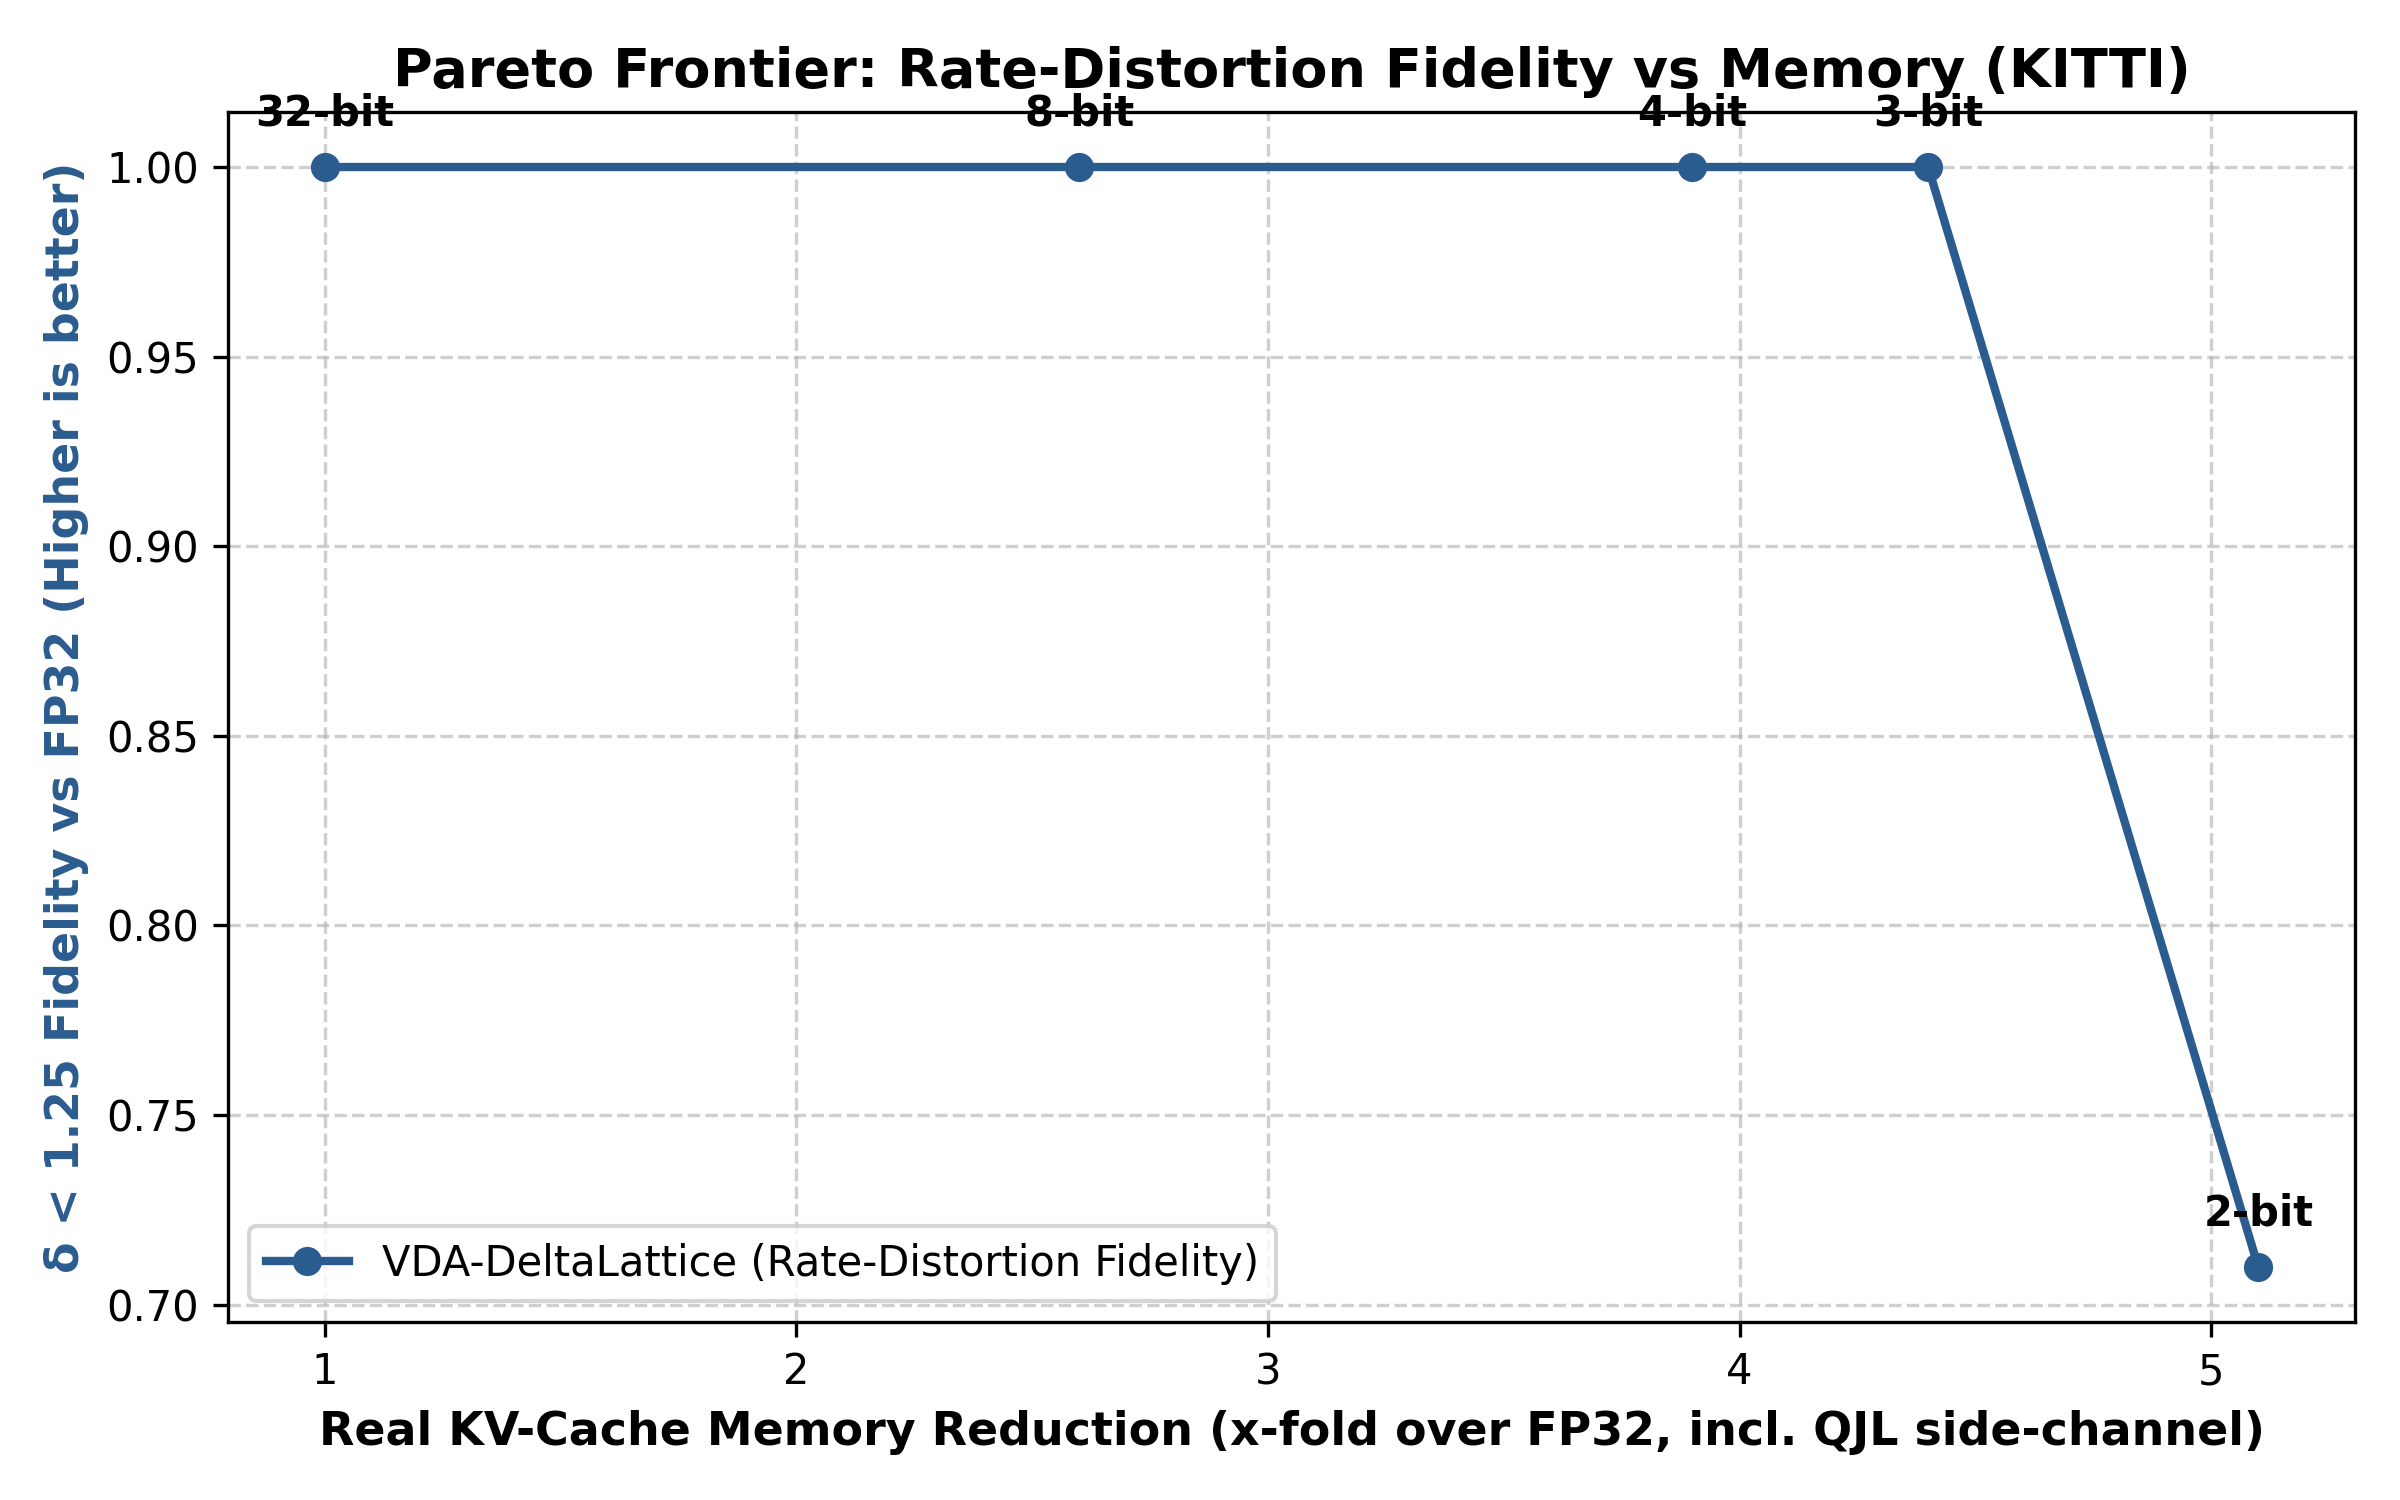
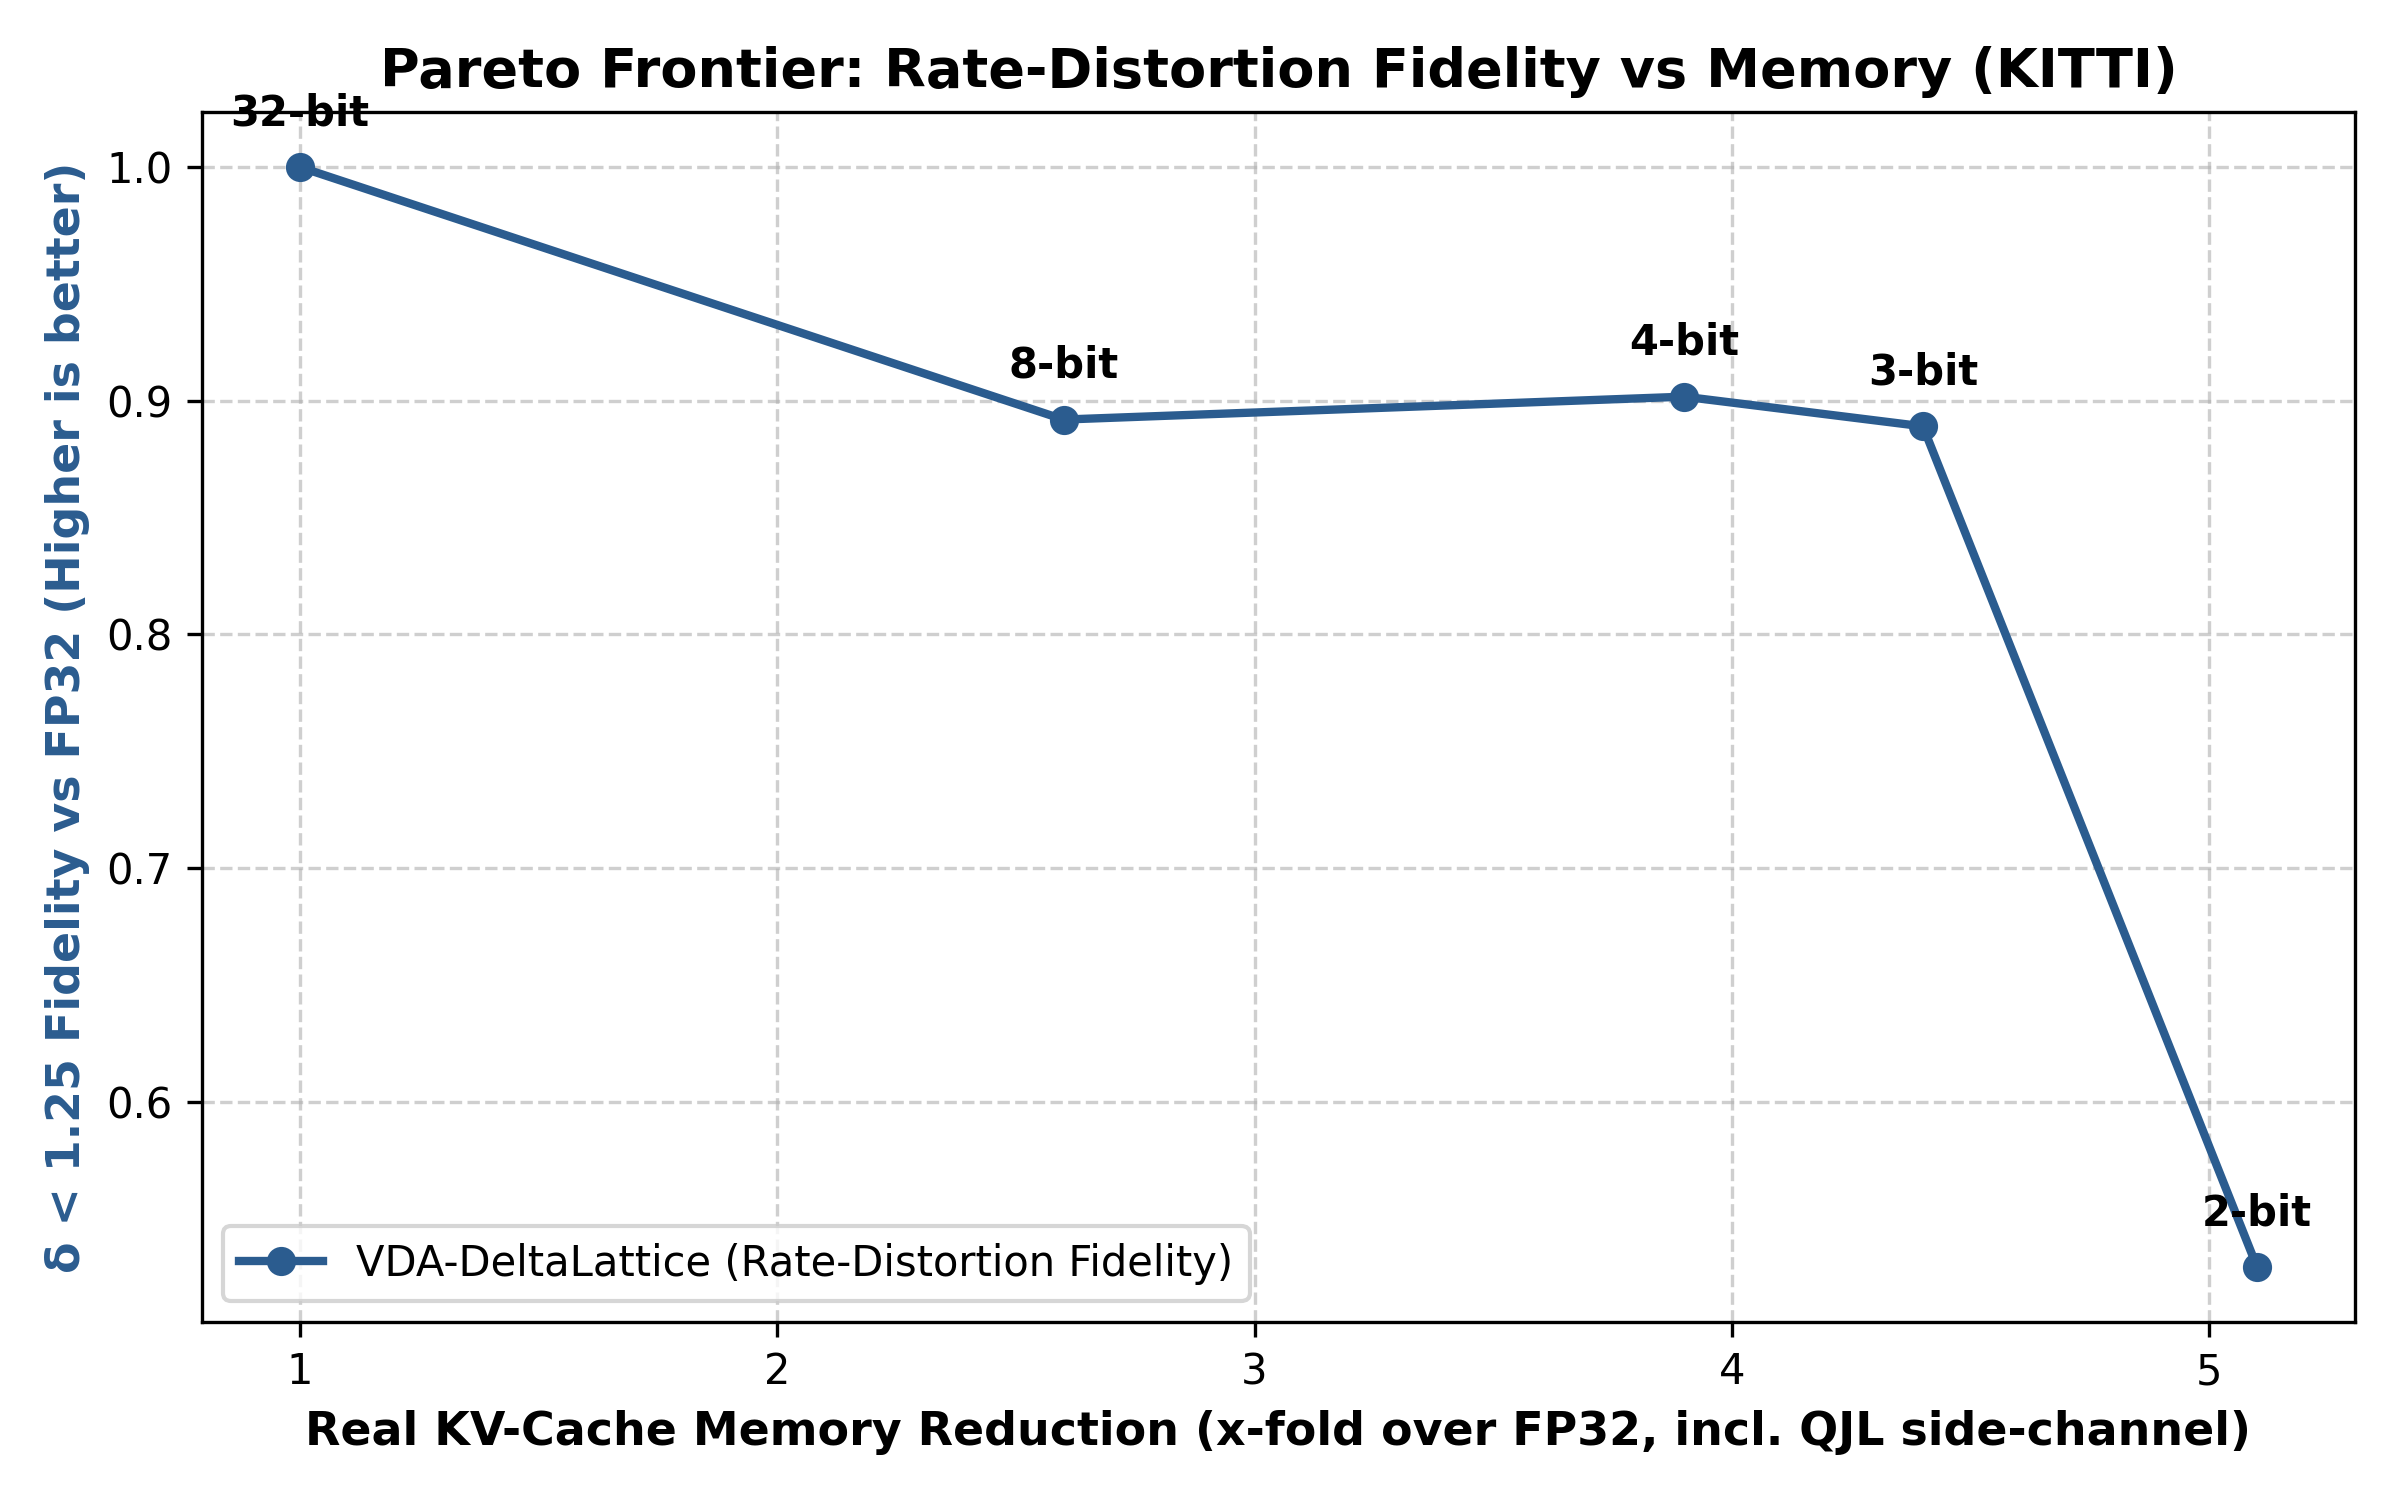
feat: update full-res evaluation script for batch processing and multi-video support, and add weight saving utility

diff --git a/scripts/test_full_res_video.py b/scripts/test_full_res_video.py
@@ -1,8 +1,7 @@
 #!/usr/bin/env python3
 """
-C
 Full Resolution PTQ Custom Video Evaluation Script
-Runs the VDA PTQ sweep (FP32, 8-bit, 4-bit) on a single video at its full original resolution.
+Runs the VDA PTQ sweep (FP32, 8-bit, 4-bit, etc.) on multiple videos at full original resolution.
 """
 import os
 import sys
@@ -36,48 +35,25 @@ def create_labeled_panel(img: np.ndarray, label: str, is_depth: bool = True) -> 
 
 def main():
     parser = argparse.ArgumentParser()
-    parser.add_argument("--video", type=str, default="videos/video2.mp4", help="Path to input video")
-    parser.add_argument("--bits", nargs="+", type=int, default=[8, 4])
-    parser.add_argument("--max-frames", type=int, default=30, help="Max frames to process")
-    parser.add_argument("--output-dir", type=str, default="outputs/custom_videos", help="Output directory")
+    parser.add_argument("--videos-dir", type=str, default="videos", help="Directory containing mp4s")
+    parser.add_argument("--bits", nargs="+", type=int, default=[8, 4, 3])
+    parser.add_argument("--max-frames", type=int, default=5, help="Max frames to process")
+    parser.add_argument("--output-dir", type=str, default="outputs/new", help="Output directory")
     args = parser.parse_args()
 
-    video_path = REPO_ROOT / args.video
+    input_path = REPO_ROOT / args.videos_dir
     output_dir = REPO_ROOT / args.output_dir
     output_dir.mkdir(parents=True, exist_ok=True)
     
-    if not video_path.exists():
-        print(f"Error: {video_path} not found.")
+    if input_path.is_file() and input_path.suffix == '.mp4':
+        video_files = [input_path]
+    else:
+        video_files = list(input_path.glob("*.mp4"))
+    if not video_files:
+        print(f"Error: No .mp4 files found in {input_path}")
         return
 
-    print(f"\nProcessing {video_path.name} at full resolution...")
-    
-    # Read frames and determine resolution
-    cap = cv2.VideoCapture(str(video_path))
-    orig_w = int(cap.get(cv2.CAP_PROP_FRAME_WIDTH))
-    orig_h = int(cap.get(cv2.CAP_PROP_FRAME_HEIGHT))
-    fps = cap.get(cv2.CAP_PROP_FPS) or 10
-    
-    # ViT models require dimensions to be a multiple of 14 (patch size)
-    new_w = max(14, round(orig_w / 14) * 14)
-    new_h = max(14, round(orig_h / 14) * 14)
-    print(f"  Original Resolution: {orig_w}x{orig_h}")
-    print(f"  Padded for ViT Model: {new_w}x{new_h}")
-
-    frames = []
-    while len(frames) < args.max_frames:
-        ret, frame = cap.read()
-        if not ret:
-            break
-        frame_rgb = cv2.cvtColor(frame, cv2.COLOR_BGR2RGB)
-        frames.append(frame_rgb)
-    cap.release()
-
-    if not frames:
-        print("No frames read from video.")
-        return
-
-    # Load Model
+    # Load Model Once
     try:
         import video_depth_anything.dinov2_layers.attention as dino_attn
         import video_depth_anything.motion_module.attention as motion_attn
@@ -103,64 +79,129 @@ def main():
         print(f"Failed to load model: {e}")
         return
 
-    frame_tensors = []
-    rgb_resized = []
-    mean = torch.tensor([0.485, 0.456, 0.406]).view(3, 1, 1)
-    std = torch.tensor([0.229, 0.224, 0.225]).view(3, 1, 1)
-    
-    for f in frames:
-        img_res = np.array(Image.fromarray(f).resize((new_w, new_h), Image.Resampling.LANCZOS))
-        rgb_resized.append(img_res)
-        tensor = (torch.from_numpy(img_res).float().permute(2, 0, 1) / 255.0 - mean) / std
-        frame_tensors.append(tensor)
+    # Process each video
+    for video_path in video_files:
+        print(f"\nProcessing {video_path.name} at full resolution...")
         
-    video_input = torch.stack(frame_tensors, dim=0).unsqueeze(0)
-    if torch.cuda.is_available():
-        video_input = video_input.cuda()
+        # Read frames and determine resolution
+        cap = cv2.VideoCapture(str(video_path))
+        orig_w = int(cap.get(cv2.CAP_PROP_FRAME_WIDTH))
+        orig_h = int(cap.get(cv2.CAP_PROP_FRAME_HEIGHT))
+        fps = cap.get(cv2.CAP_PROP_FPS) or 10
+        
+        # ViT models require dimensions to be a multiple of 14 (patch size)
+        new_w = max(14, round(orig_w / 14) * 14)
+        new_h = max(14, round(orig_h / 14) * 14)
+        print(f"  Original Resolution: {orig_w}x{orig_h}")
+        print(f"  Padded for ViT Model: {new_w}x{new_h}")
 
-    depth_predictions = {}
-    
-    print("  Running FP32 Baseline (Full Res)...")
-    with torch.no_grad():
-        depth_predictions["FP32 Baseline"] = model(video_input)[0].cpu().numpy()
-        
-    for bit in args.bits:
-        print(f"  Running {bit}-bit PTQ (Full Res)...")
-        model_quant = VideoDepthAnything(**model_configs).eval()
-        model_quant.load_state_dict(torch.load(ckpt_path, map_location='cpu'))
-        if torch.cuda.is_available():
-            model_quant = model_quant.cuda()
+        frames = []
+        while True:
+            ret, frame = cap.read()
+            if not ret:
+                break
+            frame_rgb = cv2.cvtColor(frame, cv2.COLOR_BGR2RGB)
+            frames.append(frame_rgb)
+        cap.release()
+
+        if not frames:
+            print("  No frames read from video, skipping.")
+            continue
             
-        model_quant = apply_rotated_quantization_to_vda(
-            model_quant, bits=bit, quantizer='lattice_d4', use_qjl=True, verbose=False, replace_temporal=False
-        )
-        with torch.no_grad():
-            depth_predictions[f"{bit}-bit D4"] = model_quant(video_input)[0].cpu().numpy()
+        print(f"  Total frames extracted: {len(frames)}")
 
-    # Layout: Top [RGB, FP32], Bottom [8-bit, 4-bit]
-    out_path = output_dir / f"ptq_fullres_{video_path.name}"
-    grid_width, grid_height = new_w * 2, new_h * 2
-    fourcc = cv2.VideoWriter_fourcc(*'mp4v')
-    out_video = cv2.VideoWriter(str(out_path), fourcc, fps, (grid_width, grid_height))
-    
-    print(f"  Assembling 2x2 Full Resolution Grid: {grid_width}x{grid_height}")
-    for t in range(len(frames)):
-        fp32_frame = depth_predictions["FP32 Baseline"][t]
-        d_min, d_max = fp32_frame.min(), fp32_frame.max()
-        d_range = max(d_max - d_min, 1e-8)
+        mean = torch.tensor([0.485, 0.456, 0.406]).view(3, 1, 1)
+        std = torch.tensor([0.229, 0.224, 0.225]).view(3, 1, 1)
         
-        p_rgb = create_labeled_panel(rgb_resized[t], f"Input Frame {t+1}/{len(frames)}", is_depth=False)
-        p_fp32 = create_labeled_panel((depth_predictions["FP32 Baseline"][t] - d_min) / d_range, "FP32 Baseline")
-        p_8bit = create_labeled_panel((depth_predictions["8-bit D4"][t] - d_min) / d_range, "8-bit PTQ")
-        p_4bit = create_labeled_panel((depth_predictions["4-bit D4"][t] - d_min) / d_range, "4-bit PTQ")
+        # Precompute resized frames to save time
+        rgb_resized = []
+        frame_tensors_all = []
+        for f in frames:
+            img_res = np.array(Image.fromarray(f).resize((new_w, new_h), Image.Resampling.LANCZOS))
+            rgb_resized.append(img_res)
+            tensor = (torch.from_numpy(img_res).float().permute(2, 0, 1) / 255.0 - mean) / std
+            frame_tensors_all.append(tensor)
+
+        depth_predictions = {}
+        chunk_size = args.max_frames
         
-        top_row = np.hstack([p_rgb, p_fp32])
-        bot_row = np.hstack([p_8bit, p_4bit])
-        grid_frame = np.vstack([top_row, bot_row])
-        out_video.write(grid_frame)
+        print(f"  Running FP32 Baseline in chunks of {chunk_size}...")
+        fp32_preds = []
+        for start_idx in range(0, len(frames), chunk_size):
+            end_idx = min(start_idx + chunk_size, len(frames))
+            chunk_tensors = frame_tensors_all[start_idx:end_idx]
+            video_input = torch.stack(chunk_tensors, dim=0).unsqueeze(0)
+            if torch.cuda.is_available():
+                video_input = video_input.cuda()
+            with torch.no_grad():
+                fp32_preds.append(model(video_input)[0].cpu().numpy())
+        depth_predictions["FP32 Baseline"] = np.concatenate(fp32_preds, axis=0)
+            
+        for bit in args.bits:
+            print(f"  Running {bit}-bit PTQ in chunks of {chunk_size}...")
+            model_quant = VideoDepthAnything(**model_configs).eval()
+            model_quant.load_state_dict(torch.load(ckpt_path, map_location='cpu'))
+            if torch.cuda.is_available():
+                model_quant = model_quant.cuda()
+                
+            model_quant = apply_rotated_quantization_to_vda(
+                model_quant, bits=bit, quantizer='lattice_d4', use_qjl=True, verbose=False, replace_temporal=False
+            )
+            
+            q_preds = []
+            for start_idx in range(0, len(frames), chunk_size):
+                end_idx = min(start_idx + chunk_size, len(frames))
+                chunk_tensors = frame_tensors_all[start_idx:end_idx]
+                video_input = torch.stack(chunk_tensors, dim=0).unsqueeze(0)
+                if torch.cuda.is_available():
+                    video_input = video_input.cuda()
+                with torch.no_grad():
+                    q_preds.append(model_quant(video_input)[0].cpu().numpy())
+            depth_predictions[f"{bit}-bit D4"] = np.concatenate(q_preds, axis=0)
+            
+            del model_quant
+            torch.cuda.empty_cache()
+
+        # Layout: Dynamic based on args.bits
+        out_path = output_dir / f"ptq_fullres_{video_path.name}"
         
-    out_video.release()
-    print(f"  Saved full resolution comparison grid to {out_path}")
+        num_cols = max(2, (len(args.bits) + 2 + 1) // 2)
+        grid_width, grid_height = new_w * num_cols, new_h * 2
+        fourcc = cv2.VideoWriter_fourcc(*'mp4v')
+        out_video = cv2.VideoWriter(str(out_path), fourcc, fps, (grid_width, grid_height))
+        
+        print(f"  Assembling Full Resolution Grid: {grid_width}x{grid_height}")
+        for t in range(len(frames)):
+            fp32_frame = depth_predictions["FP32 Baseline"][t]
+            d_min, d_max = fp32_frame.min(), fp32_frame.max()
+            d_range = max(d_max - d_min, 1e-8)
+            
+            p_rgb = create_labeled_panel(rgb_resized[t], f"Input Frame {t+1}/{len(frames)}", is_depth=False)
+            p_fp32 = create_labeled_panel((depth_predictions["FP32 Baseline"][t] - d_min) / d_range, "FP32 Baseline")
+            
+            top_panels = [p_rgb, p_fp32]
+            bot_panels = []
+            
+            for bit in args.bits:
+                p = create_labeled_panel((depth_predictions[f"{bit}-bit D4"][t] - d_min) / d_range, f"{bit}-bit PTQ")
+                if len(top_panels) < num_cols:
+                    top_panels.append(p)
+                else:
+                    bot_panels.append(p)
+                    
+            # Pad with black panels to complete the grid
+            while len(top_panels) < num_cols:
+                top_panels.append(np.zeros_like(p_rgb))
+            while len(bot_panels) < num_cols:
+                bot_panels.append(np.zeros_like(p_rgb))
+                
+            top_row = np.hstack(top_panels)
+            bot_row = np.hstack(bot_panels)
+            grid_frame = np.vstack([top_row, bot_row])
+            out_video.write(grid_frame)
+            
+        out_video.release()
+        print(f"  Saved full resolution comparison grid to {out_path}")
 
 if __name__ == "__main__":
     main()

diff --git a/scripts/save_ptq_weights.py b/scripts/save_ptq_weights.py
@@ -1,0 +1,72 @@
+#!/usr/bin/env python3
+"""
+Save PTQ Model Weights
+Loads the FP32 VDA model, applies PTQ (8-bit, 4-bit, 3-bit), and saves the quantized weights to disk.
+"""
+import os
+import sys
+import argparse
+from pathlib import Path
+import torch
+
+SCRIPT_DIR = Path(__file__).resolve().parent
+REPO_ROOT = SCRIPT_DIR.parent
+sys.path.insert(0, str(REPO_ROOT))
+
+vda_path = REPO_ROOT / "Video-Depth-Anything"
+if vda_path.exists() and str(vda_path) not in sys.path:
+    sys.path.insert(0, str(vda_path))
+
+from research.models.rotated_attention import apply_rotated_quantization_to_vda
+
+def main():
+    parser = argparse.ArgumentParser()
+    parser.add_argument("--bits", nargs="+", type=int, default=[8, 4, 3])
+    parser.add_argument("--output-dir", type=str, default="checkpoints", help="Output directory for weights")
+    args = parser.parse_args()
+
+    output_dir = REPO_ROOT / args.output_dir
+    output_dir.mkdir(parents=True, exist_ok=True)
+    
+    print(f"Loading Base FP32 Model...")
+    try:
+        import video_depth_anything.dinov2_layers.attention as dino_attn
+        import video_depth_anything.motion_module.attention as motion_attn
+        if not torch.cuda.is_available():
+            dino_attn.memory_efficient_attention = lambda q, k, v, attn_bias=None, **kwargs: torch.nn.functional.scaled_dot_product_attention(q, k, v, attn_mask=attn_bias)
+            motion_attn.XFORMERS_AVAILABLE = False
+            
+        from video_depth_anything.video_depth import VideoDepthAnything
+        model_configs = {'encoder': 'vits', 'features': 64, 'out_channels': [48, 96, 192, 384]}
+        
+        ckpt_path = REPO_ROOT / "checkpoints" / "video_depth_anything_vits.pth"
+        if not ckpt_path.exists():
+            print(f"Error: Checkpoint not found at {ckpt_path}")
+            return
+            
+    except Exception as e:
+        print(f"Failed to load model architecture: {e}")
+        return
+
+    # Process each bit-width
+    for bit in args.bits:
+        print(f"\n--- Processing {bit}-bit PTQ ---")
+        model_quant = VideoDepthAnything(**model_configs).eval()
+        model_quant.load_state_dict(torch.load(ckpt_path, map_location='cpu'))
+        
+        # We don't necessarily need CUDA just to quantize and save, but doing it on CPU is fine and avoids OOM.
+        
+        print(f"Applying Rotated Quantization ({bit}-bit)...")
+        model_quant = apply_rotated_quantization_to_vda(
+            model_quant, bits=bit, quantizer='lattice_d4', use_qjl=True, verbose=False, replace_temporal=False
+        )
+        
+        out_path = output_dir / f"video_depth_anything_vits_{bit}bit_ptq.pth"
+        print(f"Saving quantized weights to {out_path}...")
+        torch.save(model_quant.state_dict(), out_path)
+        print("Done!")
+
+    print("\nAll PTQ encodings/weights have been successfully saved!")
+
+if __name__ == "__main__":
+    main()